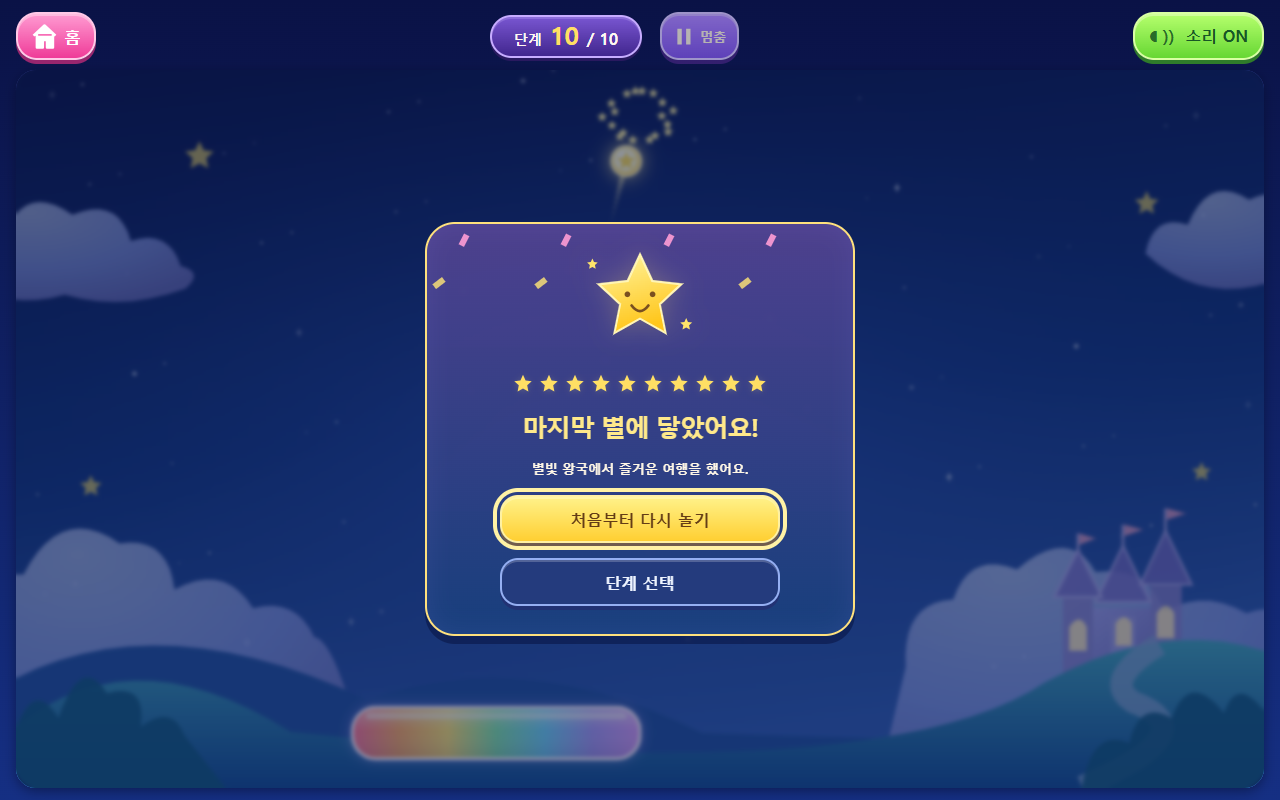
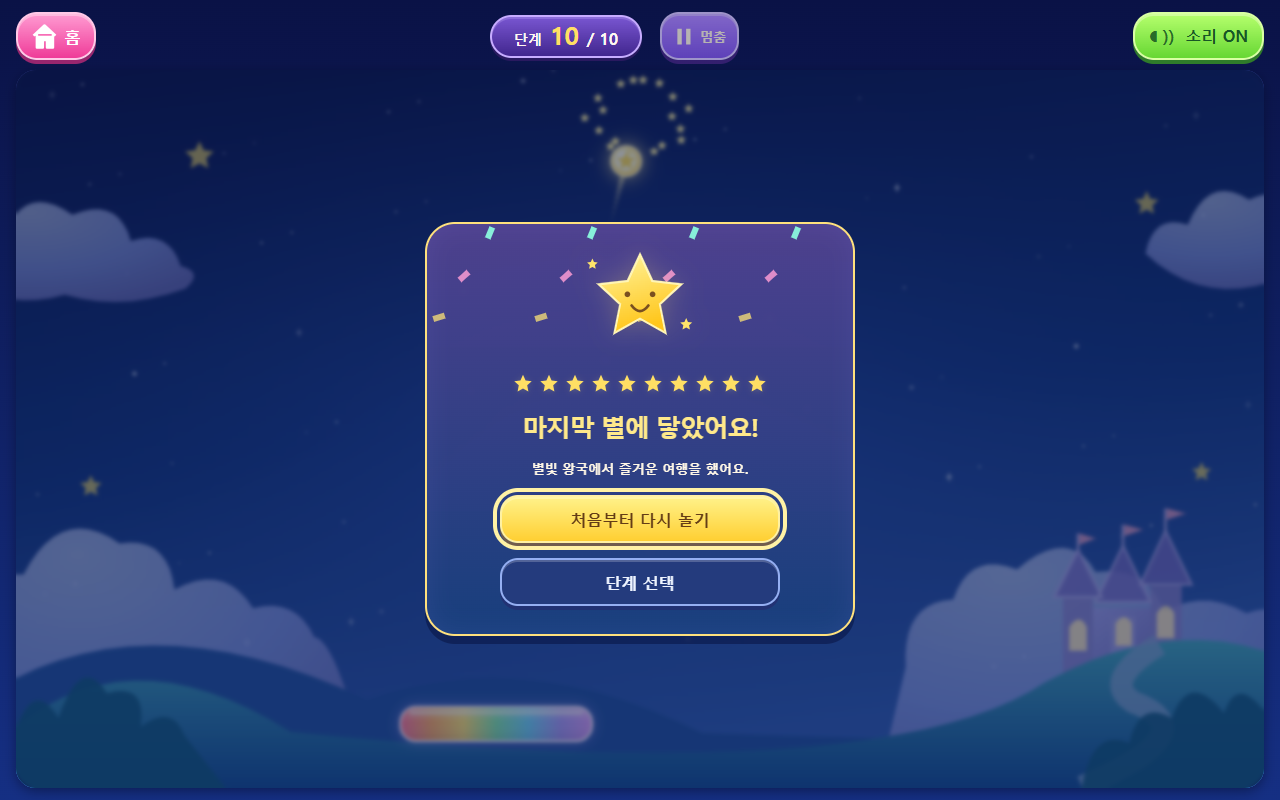
fix: shrink paddle and boost ball speed after ten seconds

diff --git a/tests/bricks.spec.ts b/tests/bricks.spec.ts
@@ -6,6 +6,36 @@ async function enter(page:Page){await page.goto('./');await page.getByRole('butt
 async function choose(page:Page,id:number){await page.getByRole('button',{name:'단계 선택',exact:true}).click();await page.getByRole('button',{name:new RegExp(`^${id}단계 `)}).click();await expect(page.locator('.brick-field>canvas')).toHaveAttribute('data-stage',String(id))}
 async function aimAtOnlyGold(page:Page){const canvas=page.locator('.brick-field>canvas'),height=Number(await canvas.getAttribute('data-world-height')),r=height>1000?18:12,scale=Math.min(1,Math.max(.38,(height-145)/350)),goldBottom=18+(43-40)*scale+40*scale,ballY=height-66-r-3,targetX=500-(ballY-(goldBottom+r))*.24/Math.sqrt(1-.24**2),box=(await canvas.boundingBox())!;await page.mouse.move(box.x+targetX/1000*box.width,box.y+box.height*.7);await canvas.focus();await canvas.press(' ')}
 
+test('live play gets exactly one speed boost, excludes pause and resets on a new stage',async({page})=>{
+ test.setTimeout(40000);await page.setViewportSize({width:1280,height:800});await enter(page)
+ const canvas=page.locator('.brick-field>canvas'),base=Number(await canvas.getAttribute('data-ball-speed')),box=(await canvas.boundingBox())!
+ expect(Number(await canvas.getAttribute('data-paddle-width'))).toBeCloseTo(stages[0].paddleWidth*2/3,2);expect(Number(await canvas.getAttribute('data-paddle-height'))).toBeCloseTo(44*2/3,2)
+ await page.getByRole('button',{name:'공 보내기',exact:true}).click();await page.getByRole('button',{name:'일시정지',exact:true}).click();await page.waitForTimeout(150)
+ const paused=await canvas.getAttribute('data-play-seconds');await page.waitForTimeout(500);expect(await canvas.getAttribute('data-play-seconds')).toBe(paused);expect(Number(await canvas.getAttribute('data-ball-speed'))).toBe(base)
+ await page.getByRole('button',{name:'계속하기',exact:true}).click()
+ const deadline=Date.now()+22000
+ while(Number(await canvas.getAttribute('data-play-seconds'))<10.2&&Date.now()<deadline){
+  const x=Number(await canvas.getAttribute('data-ball-x'));await page.mouse.move(box.x+x/1000*box.width,box.y+box.height*.96)
+  if(await canvas.getAttribute('data-phase')==='ready')await page.getByRole('button',{name:'공 보내기',exact:true}).click()
+  await page.waitForTimeout(40)
+ }
+ expect(Number(await canvas.getAttribute('data-play-seconds'))).toBeGreaterThanOrEqual(10)
+ expect(Number(await canvas.getAttribute('data-ball-speed'))).toBeCloseTo(base*1.2,3)
+ await page.getByRole('button',{name:'일시정지',exact:true}).click();await choose(page,2)
+ await expect.poll(()=>canvas.getAttribute('data-play-seconds')).toBe('0.000')
+})
+
+test('cached playground starts in a new offline window and opens all four games',async({page,context})=>{
+ await page.goto('./');await page.evaluate(()=>navigator.serviceWorker.ready);await page.reload();await page.waitForFunction(()=>!!navigator.serviceWorker.controller)
+ const url=page.url();await context.setOffline(true);await page.close();const offline=await context.newPage(),errors:string[]=[];offline.on('pageerror',e=>errors.push(e.message))
+ await offline.goto(url);await expect(offline.getByRole('heading',{name:'어린이 게임 놀이터',exact:true})).toBeVisible()
+ for(const name of ['순서대로 색칠놀이','요리놀이','코디놀이','벽돌깨기']){
+  await offline.getByRole('button',{name,exact:true}).click();await expect(offline.getByRole('region',{name,exact:true})).toBeVisible();await expect(offline.locator('.game-shell')).not.toBeEmpty()
+  await offline.getByRole('button',{name:'홈으로 이동',exact:true}).click()
+ }
+ expect(errors).toEqual([]);await context.setOffline(false)
+})
+
 test('all ten stages start, stage gallery matches data, and each layout is captured',async({page})=>{
  test.setTimeout(90000);await page.setViewportSize({width:1280,height:800});await enter(page);const canvas=page.locator('.brick-field>canvas');await expect(canvas).toHaveAttribute('data-stage','1')
  for(let id=1;id<=10;id++){if(id!==1)await choose(page,id);await expect.poll(()=>canvas.getAttribute('data-remaining')).toBe(String(stages[id-1].bricks.length));await page.screenshot({path:`docs/brick-breaker/stage-${String(id).padStart(2,'0')}.png`,fullPage:true})}

diff --git a/src/games/brick-breaker/engine.ts b/src/games/brick-breaker/engine.ts
@@ -18,11 +18,11 @@ export function sweepCircleRect(x:number,y:number,vx:number,vy:number,r:number,r
  }
  return hits.sort((a,b)=>a.t-b.t)[0]??null
 }
-export function createEngine(stage:Stage,height:number,removed:string[]=[]):Engine{
- const h=Math.max(250,height),r=height>1000?18:12,paddle={x:500,y:h-66,w:stage.paddleWidth,h:44},layout=stageBricks(stage,h)
+export function createEngine(stage:Stage,height:number,removed:string[]=[],playSeconds=0):Engine{
+ const h=Math.max(250,height),r=height>1000?18:12,paddle={x:500,y:h-66,w:stage.paddleWidth*2/3,h:44*2/3},layout=stageBricks(stage,h)
  // Preserve reaction time when a tall pattern is shown in a short landscape viewport.
  const clearance=paddle.y-Math.max(...layout.map(b=>b.y+b.h))-r,speed=Math.min(stage.speed*h/620,Math.max(90,clearance/.6))
- return {stage:stage.id,width:1000,height:h,phase:'ready',pausedFrom:'ready',paddle,ball:{x:500,y:paddle.y-r-3,vx:0,vy:0,r},bricks:layout.filter(b=>!removed.includes(b.id)),removed:[...removed],trail:[],particles:[],speed,misses:0,clearReason:null,events:[]}
+ return {stage:stage.id,width:1000,height:h,phase:'ready',pausedFrom:'ready',paddle,ball:{x:500,y:paddle.y-r-3,vx:0,vy:0,r},bricks:layout.filter(b=>!removed.includes(b.id)),removed:[...removed],trail:[],particles:[],speed:speed*(playSeconds>=10-1e-9?1.2:1),playSeconds,boosted:playSeconds>=10-1e-9,misses:0,clearReason:null,events:[]}
 }
 export function movePaddle(e:Engine,x:number){e.paddle.x=Math.max(e.paddle.w/2+4,Math.min(e.width-e.paddle.w/2-4,x));if(e.phase==='ready'){e.ball.x=e.paddle.x;e.ball.y=e.paddle.y-e.ball.r-3}}
 export function launch(e:Engine){if(e.phase!=='ready')return;e.phase='playing';e.ball.vx=e.speed*.24;e.ball.vy=-e.speed*Math.sqrt(1-.24**2);e.trail=[]}
@@ -33,13 +33,16 @@ export function step(e:Engine,dt:number){
  if(e.phase==='paused')return
  for(const p of e.particles){p.life-=dt;p.x+=p.vx*dt;p.y+=p.vy*dt;p.vy+=110*dt}e.particles=e.particles.filter(p=>p.life>0)
  if(e.phase!=='playing')return
+ // Count active play only. One speed increase per stage, retained after a miss.
+ e.playSeconds+=dt
+ if(!e.boosted&&e.playSeconds>=10-1e-9){e.boosted=true;e.speed*=1.2;e.ball.vx*=1.2;e.ball.vy*=1.2}
  let left=dt
  for(let bounce=0;left>1e-7&&bounce<12&&e.phase==='playing';bounce++){
   const ball=e.ball,hits:Hit[]=[],{x,y,vx,vy,r}=ball
   const wall=(t:number,nx:number,ny:number)=>{if(t>=-1e-8&&t<=left)hits.push({t:Math.max(0,t),nx,ny,kind:'wall'})}
   if(vx<0)wall((r-x)/vx,1,0);if(vx>0)wall((e.width-r-x)/vx,-1,0);if(vy<0)wall((r-y)/vy,0,1)
   for(const brick of e.bricks){const hit=sweepCircleRect(x,y,vx,vy,r,brick,left,Math.min(9,brick.h*.3));if(hit)hits.push({...hit,kind:'brick',brick})}
-  if(vy>0){const rect={x:e.paddle.x-e.paddle.w/2,y:e.paddle.y,w:e.paddle.w,h:e.paddle.h},hit=sweepCircleRect(x,y,vx,vy,r,rect,left,18);if(hit&&y+vy*hit.t<=rect.y+rect.h*.55)hits.push({...hit,kind:'paddle'})}
+  if(vy>0){const rect={x:e.paddle.x-e.paddle.w/2,y:e.paddle.y,w:e.paddle.w,h:e.paddle.h},hit=sweepCircleRect(x,y,vx,vy,r,rect,left,Math.min(18,rect.h/2));if(hit&&y+vy*hit.t<=rect.y+rect.h*.55)hits.push({...hit,kind:'paddle'})}
   const hit=hits.sort((a,b)=>a.t-b.t)[0]
   if(!hit){ball.x+=vx*left;ball.y+=vy*left;left=0;break}
   ball.x+=vx*hit.t;ball.y+=vy*hit.t;left-=hit.t

diff --git a/tests/bricks-engine.spec.ts b/tests/bricks-engine.spec.ts
@@ -26,6 +26,23 @@ test('paddle mirrors incoming angle at every contact position without changing s
  const wall=createEngine(stages[0],620);wall.bricks=[];wall.phase='playing';wall.speed=300;wall.ball={x:985,y:200,vx:300,vy:.001,r:12};step(wall,.05);expect(wall.ball.vx).toBeLessThan(0);expect(Math.abs(wall.ball.vy)).toBeGreaterThan(100);expect(wall.ball.x).toBeLessThanOrEqual(988)
  for(const x of [-1000,2000]){movePaddle(wall,x);expect(wall.paddle.x-wall.paddle.w/2).toBeGreaterThanOrEqual(0);expect(wall.paddle.x+wall.paddle.w/2).toBeLessThanOrEqual(1000)}
 })
+test('smaller paddle and a single 1.2x boost after ten active seconds, retained across misses and resize',()=>{
+ for(const stage of stages){const e=createEngine(stage,620);expect(e.paddle.w).toBeCloseTo(stage.paddleWidth*2/3);expect(e.paddle.h).toBeCloseTo(44*2/3)}
+ const e=createEngine(stages[0],620),base=e.speed
+ step(e,30);expect(e.playSeconds).toBe(0);launch(e);togglePause(e);step(e,30);expect(e.playSeconds).toBe(0);togglePause(e)
+ // An empty playfield isolates timing from stage completion. Catch the ball normally.
+ e.bricks=[]
+ for(let tick=0;tick<1199;tick++){movePaddle(e,e.ball.x);step(e,1/120)}
+ expect(e.boosted).toBe(false);expect(e.speed).toBe(base)
+ const direction=Math.atan2(e.ball.vy,e.ball.vx);step(e,1/120)
+ expect(e.boosted).toBe(true);expect(e.speed).toBeCloseTo(base*1.2);expect(Math.hypot(e.ball.vx,e.ball.vy)).toBeCloseTo(base*1.2);expect(Math.atan2(e.ball.vy,e.ball.vx)).toBeCloseTo(direction)
+ for(let tick=0;tick<2400;tick++){movePaddle(e,e.ball.x);step(e,1/120)}
+ expect(e.speed).toBeCloseTo(base*1.2)
+ e.ball.y=e.height+20;e.ball.vy=100;step(e,1/120);expect(e.phase).toBe('ready');const elapsed=e.playSeconds;step(e,20);expect(e.playSeconds).toBe(elapsed);launch(e);expect(Math.hypot(e.ball.vx,e.ball.vy)).toBeCloseTo(base*1.2)
+ const resized=createEngine(stages[0],510,e.removed,e.playSeconds),fresh=createEngine(stages[0],510);expect(resized.boosted).toBe(true);expect(resized.speed).toBeCloseTo(fresh.speed*1.2)
+ const next=createEngine(stages[1],620);expect(next.playSeconds).toBe(0);expect(next.boosted).toBe(false)
+})
+
 test('pause is frozen, misses keep bricks, and variable frame intervals preserve physics',()=>{
  const e=createEngine(stages[0],620);launch(e);togglePause(e);const snapshot=JSON.stringify(e);step(e,1);expect(JSON.stringify(e)).toBe(snapshot);togglePause(e);expect(e.phase).toBe('playing');e.ball.y=e.height+20;e.ball.vy=100;const count=e.bricks.length;step(e,.01);expect(e.phase).toBe('ready');expect(e.misses).toBe(1);expect(e.bricks).toHaveLength(count)
  const simulate=(fps:number)=>{const e=createEngine(stages[0],620);e.bricks=[];e.phase='playing';e.ball={x:910,y:65,vx:220,vy:-180,r:12};e.speed=Math.hypot(220,180);for(let i=0;i<fps*2;i++)step(e,1/fps);return e.ball};const reference=simulate(120);for(const fps of [30,60,144]){const ball=simulate(fps);expect(ball.x).toBeCloseTo(reference.x,5);expect(ball.y).toBeCloseTo(reference.y,5)}

diff --git a/src/games/brick-breaker/render.ts b/src/games/brick-breaker/render.ts
@@ -14,9 +14,9 @@ export function render(ctx:CanvasRenderingContext2D,e:Engine,cssWidth:number,css
  const scale=cssWidth/1000;ctx.setTransform(1,0,0,1,0,0);ctx.clearRect(0,0,ctx.canvas.width,ctx.canvas.height);ctx.setTransform(dpr*scale,0,0,dpr*scale,0,0)
  for(const b of e.bricks)brick(ctx,b,time,reduced)
  if(!reduced)for(let i=0;i<e.trail.length;i+=2){const p=e.trail[i],f=(i+1)/e.trail.length;ctx.beginPath();ctx.arc(p.x,p.y,1+f*2.2,0,Math.PI*2);ctx.fillStyle=`rgba(255,244,189,${f*.65})`;ctx.fill()}
- const p=e.paddle,x=p.x-p.w/2,y=p.y;ctx.save();ctx.shadowBlur=12;ctx.shadowColor='#bca4ff80';rounded(ctx,x,y,p.w,p.h,20);ctx.fillStyle='#e9e0ff';ctx.fill();ctx.shadowBlur=0
- const rainbow=ctx.createLinearGradient(x,y,x+p.w,y);['#ff719f','#ffab67','#ffe475','#82e9af','#6dd5ff','#a99aff','#db9bff'].forEach((color,i)=>rainbow.addColorStop(i/6,color));rounded(ctx,x+2,y+2,p.w-4,p.h-4,18);ctx.fillStyle=rainbow;ctx.fill();ctx.strokeStyle='#ffffffb8';ctx.lineWidth=1.5;ctx.stroke()
- const sheen=ctx.createLinearGradient(x,y,x,y+p.h);sheen.addColorStop(0,'#ffffff80');sheen.addColorStop(.45,'#ffffff08');sheen.addColorStop(1,'#493a772e');rounded(ctx,x+3,y+3,p.w-6,p.h-6,17);ctx.fillStyle=sheen;ctx.fill();rounded(ctx,x+12,y+6,p.w-24,5,3);ctx.fillStyle='#ffffff70';ctx.fill();ctx.restore()
+ const p=e.paddle,k=p.h/44,x=0,y=0,w=p.w/k,h=44;ctx.save();ctx.translate(p.x-p.w/2,p.y);ctx.scale(k,k);ctx.shadowBlur=12;ctx.shadowColor='#bca4ff80';rounded(ctx,x,y,w,h,20);ctx.fillStyle='#e9e0ff';ctx.fill();ctx.shadowBlur=0
+ const rainbow=ctx.createLinearGradient(x,y,x+w,y);['#ff719f','#ffab67','#ffe475','#82e9af','#6dd5ff','#a99aff','#db9bff'].forEach((color,i)=>rainbow.addColorStop(i/6,color));rounded(ctx,x+2,y+2,w-4,h-4,18);ctx.fillStyle=rainbow;ctx.fill();ctx.strokeStyle='#ffffffb8';ctx.lineWidth=1.5;ctx.stroke()
+ const sheen=ctx.createLinearGradient(x,y,x,y+h);sheen.addColorStop(0,'#ffffff80');sheen.addColorStop(.45,'#ffffff08');sheen.addColorStop(1,'#493a772e');rounded(ctx,x+3,y+3,w-6,h-6,17);ctx.fillStyle=sheen;ctx.fill();rounded(ctx,x+12,y+6,w-24,5,3);ctx.fillStyle='#ffffff70';ctx.fill();ctx.restore()
  const ball=e.ball;ctx.save();ctx.shadowColor='#ffec9d';ctx.shadowBlur=reduced?12:20;const glow=ctx.createRadialGradient(ball.x-3,ball.y-4,1,ball.x,ball.y,ball.r);glow.addColorStop(0,'#fffefa');glow.addColorStop(.65,'#fffbd6');glow.addColorStop(1,'#ffd34b');ctx.beginPath();ctx.arc(ball.x,ball.y,ball.r,0,Math.PI*2);ctx.fillStyle=glow;ctx.fill();ctx.shadowBlur=0;ctx.strokeStyle='#fff7c9';ctx.lineWidth=1.5;ctx.stroke();star(ctx,ball.x,ball.y,ball.r*.62,'#ffe05e');ctx.restore()
  if(!reduced)for(const particle of e.particles){ctx.globalAlpha=Math.max(0,Math.min(1,particle.life*2));star(ctx,particle.x,particle.y,particle.color==='gold'?4:2.6,particle.color==='gold'?'#fff1a4':colors[particle.color as BrickColor]?.top??'#fff6ce')}ctx.globalAlpha=1
  void cssHeight

diff --git a/src/games/brick-breaker/index.tsx b/src/games/brick-breaker/index.tsx
@@ -27,7 +27,7 @@ export default function BrickBreaker(){
  useEffect(()=>{
   const element=host.current;if(!element)return
   const observer=new ResizeObserver(([entry])=>{const w=entry.contentRect.width,h=entry.contentRect.height;if(w<1||h<1)return;const height=1000*h/w;size.current={w,h,dpr:Math.min(window.devicePixelRatio||1,2)};const node=canvas.current;if(node){node.width=Math.round(w*size.current.dpr);node.height=Math.round(h*size.current.dpr)}
-   const old=engine.current,next=createEngine(stages[old.stage-1],height,old.removed);next.misses=old.misses;if(old.phase==='playing'||old.phase==='paused'){next.phase='paused';next.pausedFrom='ready'}else if(old.phase==='cleared'){next.phase='cleared';next.clearReason=old.clearReason}engine.current=next;setWorldHeight(next.height);publish()
+   const old=engine.current,next=createEngine(stages[old.stage-1],height,old.removed,old.playSeconds);next.misses=old.misses;if(old.phase==='playing'||old.phase==='paused'){next.phase='paused';next.pausedFrom='ready'}else if(old.phase==='cleared'){next.phase='cleared';next.clearReason=old.clearReason}engine.current=next;setWorldHeight(next.height);publish()
   });observer.observe(element);return()=>observer.disconnect()
  },[])
  useEffect(()=>{
@@ -39,7 +39,7 @@ export default function BrickBreaker(){
     if(before!==e.phase)publish();accumulator-=1/120
    }
    const node=canvas.current,ctx=node?.getContext('2d');if(ctx&&now-lastRender>=15){lastRender=now;const s=size.current;render(ctx,e,s.w,s.h,s.dpr,now/1000,window.matchMedia('(prefers-reduced-motion: reduce)').matches)}
-   if(node&&now-lastData>=100){lastData=now;node.dataset.ballX=e.ball.x.toFixed(2);node.dataset.ballY=e.ball.y.toFixed(2);node.dataset.paddleX=e.paddle.x.toFixed(2);node.dataset.remaining=String(e.bricks.length);node.dataset.worldHeight=String(e.height)}
+   if(node&&now-lastData>=100){lastData=now;node.dataset.ballX=e.ball.x.toFixed(2);node.dataset.ballY=e.ball.y.toFixed(2);node.dataset.paddleX=e.paddle.x.toFixed(2);node.dataset.remaining=String(e.bricks.length);node.dataset.worldHeight=String(e.height);node.dataset.ballSpeed=e.speed.toFixed(4);node.dataset.playSeconds=e.playSeconds.toFixed(3);node.dataset.paddleWidth=e.paddle.w.toFixed(3);node.dataset.paddleHeight=e.paddle.h.toFixed(3)}
   }
   frame=requestAnimationFrame(animate)
   function stop(){keys.current.clear();if(engine.current.phase==='playing'){togglePause(engine.current);publish()}}

diff --git a/src/games/brick-breaker/types.ts b/src/games/brick-breaker/types.ts
@@ -3,4 +3,4 @@ export type Brick={id:string;x:number;y:number;w:number;h:number;color:BrickColo
 export type Stage={id:number;name:string;theme:'curve'|'heart'|'clover'|'wave'|'zigzag'|'final';difficulty:string;speed:number;paddleWidth:number;bricks:Brick[]}
 export type Phase='ready'|'playing'|'paused'|'cleared'
 export type Particle={x:number;y:number;vx:number;vy:number;life:number;color:string}
-export type Engine={stage:number;width:number;height:number;phase:Phase;pausedFrom:'ready'|'playing';paddle:{x:number;y:number;w:number;h:number};ball:{x:number;y:number;vx:number;vy:number;r:number};bricks:Brick[];removed:string[];trail:{x:number;y:number}[];particles:Particle[];speed:number;misses:number;clearReason:'gold'|'all'|null;events:('brick'|'gold'|'paddle'|'miss')[]}
+export type Engine={stage:number;width:number;height:number;phase:Phase;pausedFrom:'ready'|'playing';paddle:{x:number;y:number;w:number;h:number};ball:{x:number;y:number;vx:number;vy:number;r:number};bricks:Brick[];removed:string[];trail:{x:number;y:number}[];particles:Particle[];speed:number;playSeconds:number;boosted:boolean;misses:number;clearReason:'gold'|'all'|null;events:('brick'|'gold'|'paddle'|'miss')[]}

diff --git a/docs/GALAXY-TAB-OFFLINE.md b/docs/GALAXY-TAB-OFFLINE.md
@@ -1,0 +1,39 @@
+# 갤럭시탭 설치와 오프라인 실행
+
+이번 수정 PR을 병합하고 수동 배포한 뒤 진행하세요. 무료 웹앱 설치이며 Play 스토어를 사용하지 않습니다.
+
+## 1. 최신 버전 열기
+
+1. 갤럭시탭의 Wi-Fi를 켭니다.
+2. **Chrome**을 엽니다. 카카오톡 등의 앱 안 브라우저 대신 Chrome을 사용하세요.
+3. https://leedb333.github.io/kids-game-playground/ 를 엽니다.
+4. 네 게임을 한 번씩 열어 정상 화면이 나타나는지 확인하고 홈으로 돌아옵니다. 벽돌깨기는 더 작아진 무지개 패들이 보이면 이번 수정 버전입니다.
+
+## 2. 설치
+
+1. Chrome 주소창 오른쪽 **점 세 개(⋮)**를 누릅니다.
+2. **설치 및 바로가기 만들기 → 설치**를 선택합니다.
+3. 표시된 설치 안내를 완료합니다. Chrome 버전에 따라 **홈 화면에 추가 → 설치** 또는 **앱 설치**로 표시될 수 있습니다.
+4. 홈 화면 또는 앱 목록의 **게임 놀이터 / 어린이 게임 놀이터** 아이콘을 엽니다.
+5. Wi-Fi를 켠 상태에서 잠시 기다리고, 네 게임을 한 번씩 열어 봅니다.
+
+메뉴 경로는 [Google Chrome 공식 안내](https://support.google.com/chrome/answer/9658361?co=GENIE.Platform%3DAndroid&hl=ko)를 기준으로 확인했습니다.
+
+## 3. 오프라인 확인
+
+1. 앱을 닫습니다.
+2. 갤럭시탭 상단을 내려 **비행기 모드**를 켭니다. **Wi-Fi도 꺼져 있는지** 확인합니다.
+3. 설치한 **게임 놀이터** 아이콘으로 다시 실행합니다.
+4. 홈 화면과 네 게임이 열리면 오프라인 준비가 완료된 것입니다.
+5. 이후에는 같은 아이콘으로 인터넷 없이 실행할 수 있습니다.
+
+앱은 최초 온라인 방문 시 게임 화면·그림·실행 파일을 기기에 저장합니다. 빌드의 모든 게임 파일과 색칠 그림이 함께 저장되는 구조를 확인했고, 자동 검증에서도 인터넷을 끈 새 브라우저 창에서 네 게임이 열리는지 검사합니다. 실제 갤럭시탭 설치와 기기 오프라인 동작은 사용자가 위 순서로 최종 확인해야 합니다.
+
+## 화면이 안 열리거나 이전 버전이 보이면
+
+- Wi-Fi를 켜고 Chrome에서 위 주소를 다시 열어 각 게임이 나타날 때까지 기다립니다.
+- Chrome의 이 앱 관련 탭과 설치한 앱 창을 모두 닫고 다시 실행합니다. 새 버전 적용에는 창을 닫았다 여는 과정이 필요할 수 있습니다.
+- 다시 비행기 모드에서 실행해 봅니다.
+- 앞으로 업데이트를 받으려면 가끔 Wi-Fi가 켜진 상태로 앱을 열어 주세요.
+
+진행 기록과 오프라인 파일은 해당 기기/Chrome에 저장됩니다. Chrome의 사이트 데이터 삭제는 진행 기록과 다운로드된 파일도 지울 수 있습니다.

diff --git a/docs/brick-final-tuning/README.md b/docs/brick-final-tuning/README.md
@@ -1,0 +1,19 @@
+# 벽돌깨기 마지막 난이도 조정
+
+- 패들 넓이와 두께를 각각 기존의 2/3로 줄였습니다. 표시와 충돌 크기를 함께 변경하고 무지개 광택도 같은 비율로 줄였습니다.
+- 각 스테이지에서 실제로 공이 움직인 시간 약 10초 후 한 번만 1.2배 빨라집니다.
+- 준비/공 다시 보내기 대기/일시정지/단계 선택 시간은 제외합니다. 공을 놓쳐도 누적 플레이 시간과 빨라진 속도는 유지합니다.
+- 화면 회전이나 크기 변경에도 해당 스테이지의 시간과 속도 증가 여부를 유지합니다. 기기 크기에 맞춘 기본 속도에 1.2배를 적용합니다.
+- 다른 단계로 이동하거나 홈을 나갔다 다시 입장하면 그 플레이의 시간은 0초부터 시작합니다. 기존 벽돌 진행/완료 기록 저장 방식은 그대로입니다.
+- 대칭 반사, 황금벽돌 즉시 완료, 10단계 구성, 다른 게임과 배포 설정은 유지합니다.
+
+## 검증 및 화면
+
+태블릿과 휴대폰의 가로/세로 화면, 축소된 패들 양끝의 충돌/대칭 반사, 10초 전후의 속력과 방향 보존, 중복 증가 방지, 일시정지/공 놓침/크기 변경/새 단계, 10단계 완료를 검사합니다. 브라우저에서도 실제 플레이 10초 후 속도 변화를 확인합니다.
+
+- [태블릿](../brick-breaker/live-tablet.png) · [16:9](../brick-breaker/live-tablet-16x9.png)
+- [휴대폰](../brick-breaker/live-phone.png) · [휴대폰 가로](../brick-breaker/live-phone-landscape.png)
+
+실제 갤럭시 기기는 미검증입니다. 설치 및 오프라인 사용법은 [갤럭시탭 안내](../GALAXY-TAB-OFFLINE.md)를 참고하세요.
+
+TypeScript 검사·Vite 빌드·Pages 경로 검증과 벽돌깨기 자동 검증 23개를 통과했습니다. 캐시 준비 후 인터넷을 끈 새 창에서 네 게임을 모두 열어 확인했습니다.
